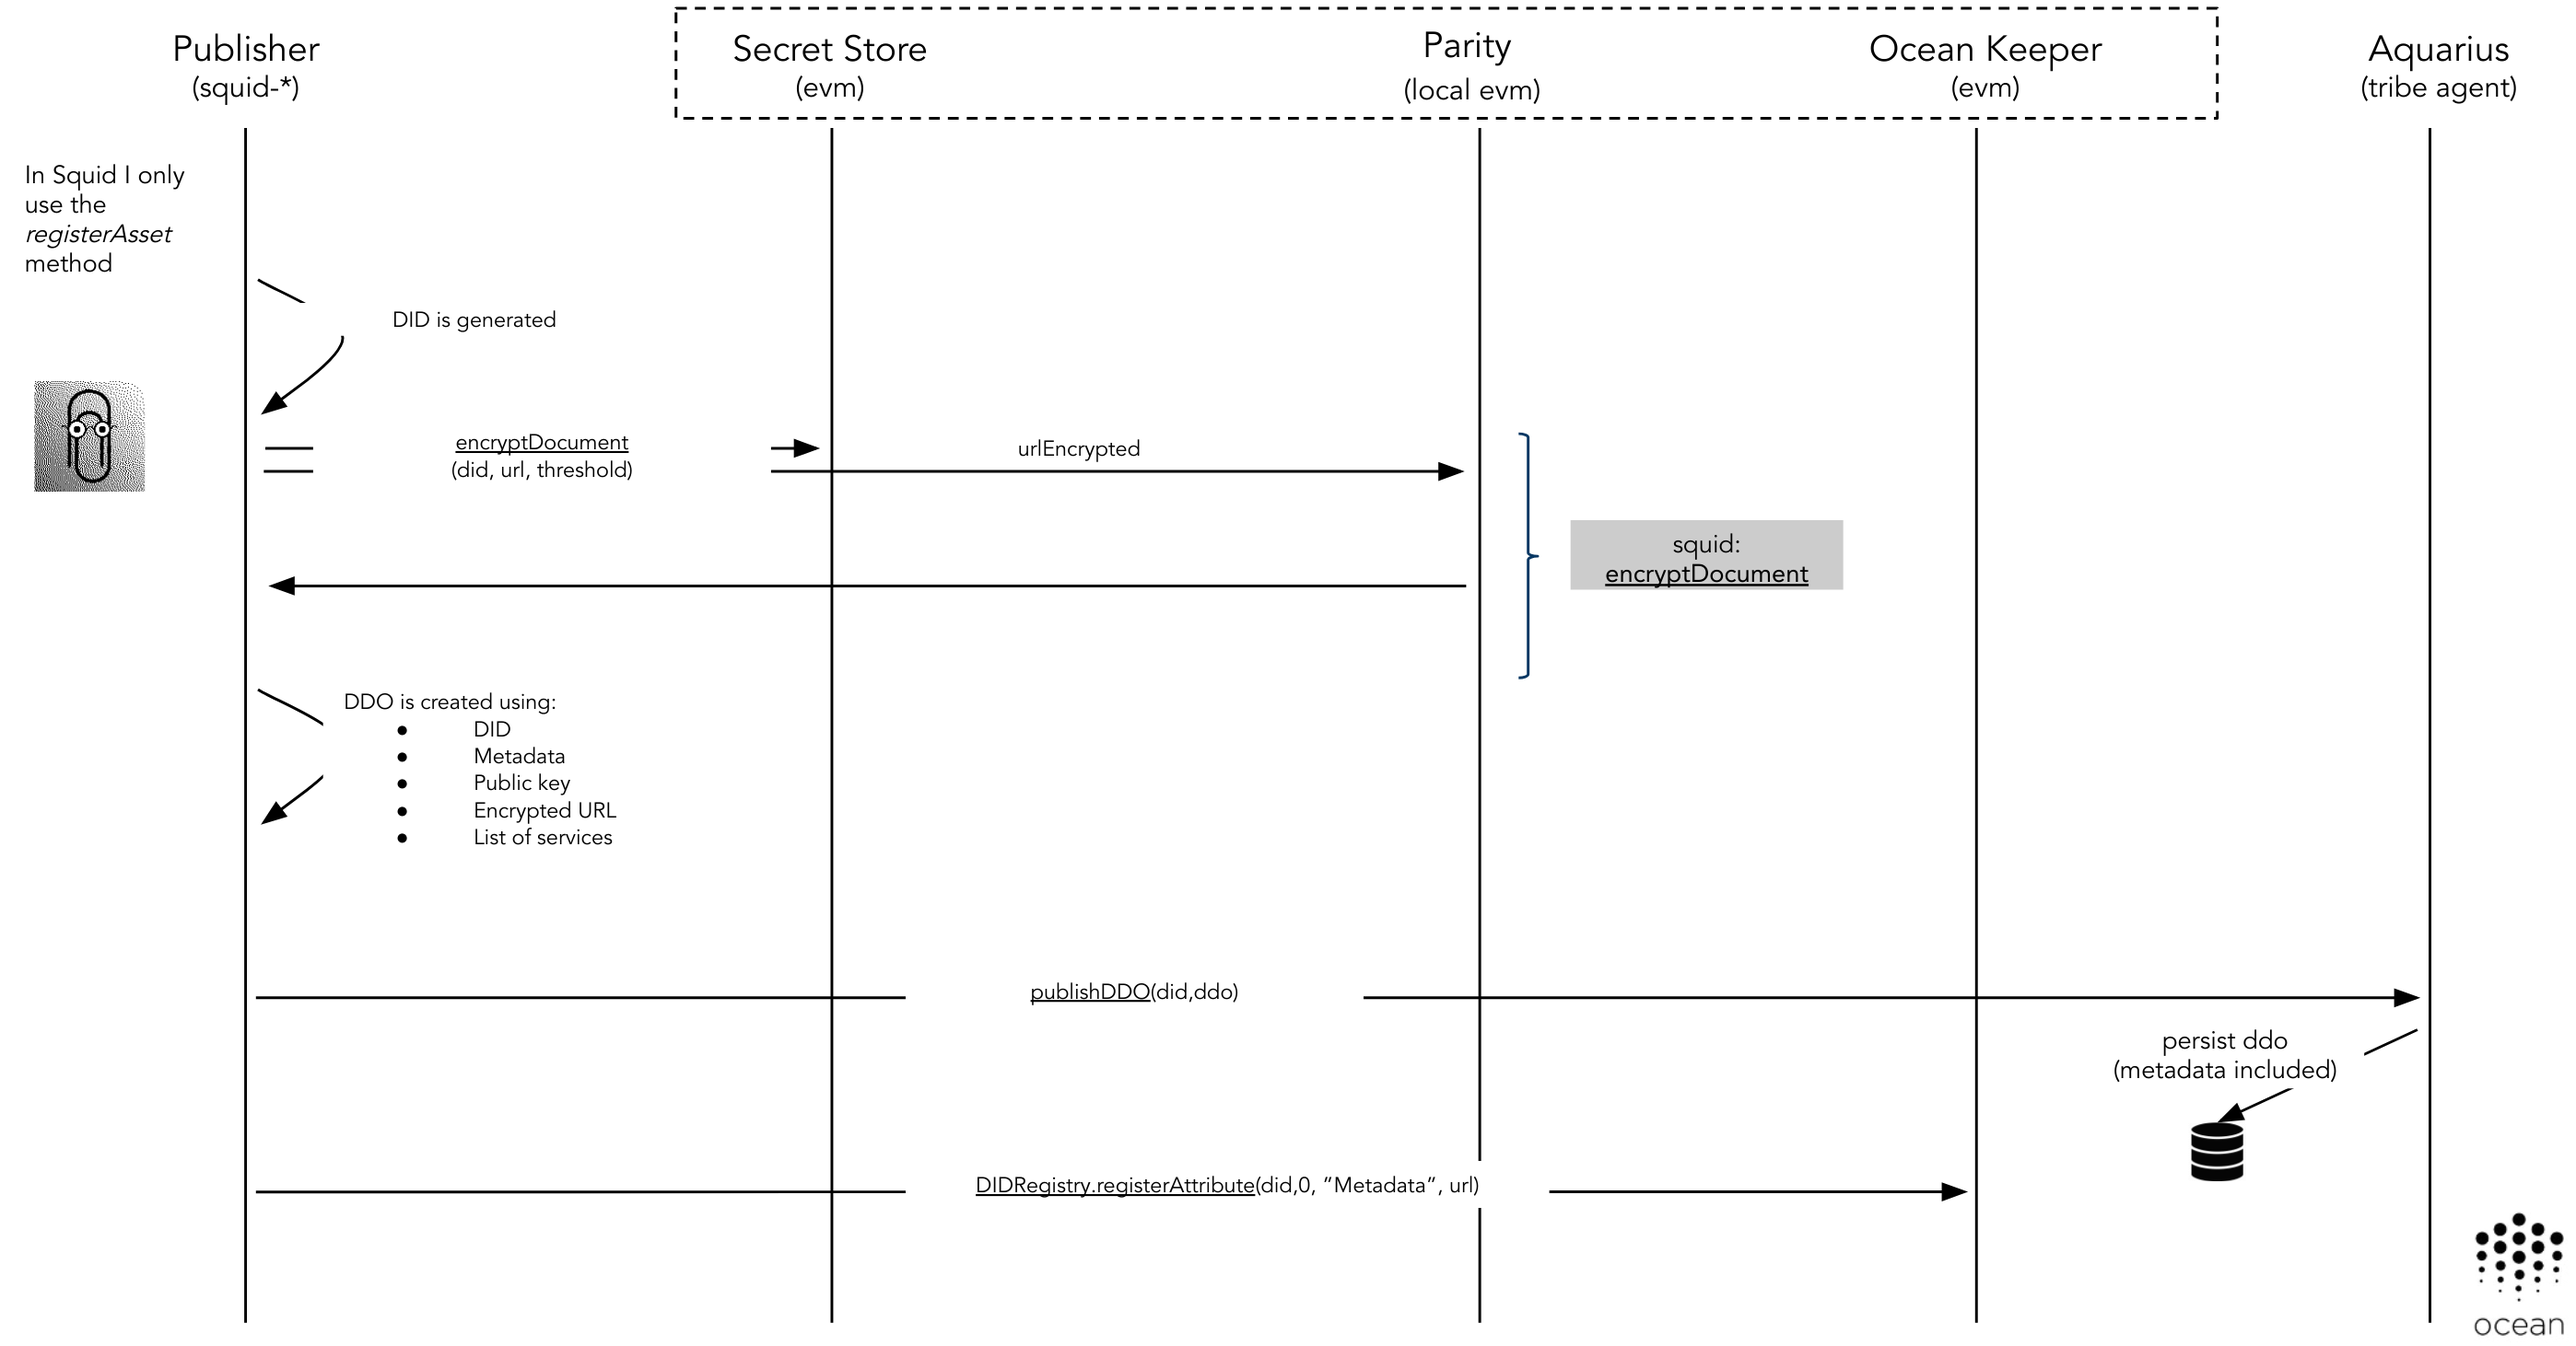
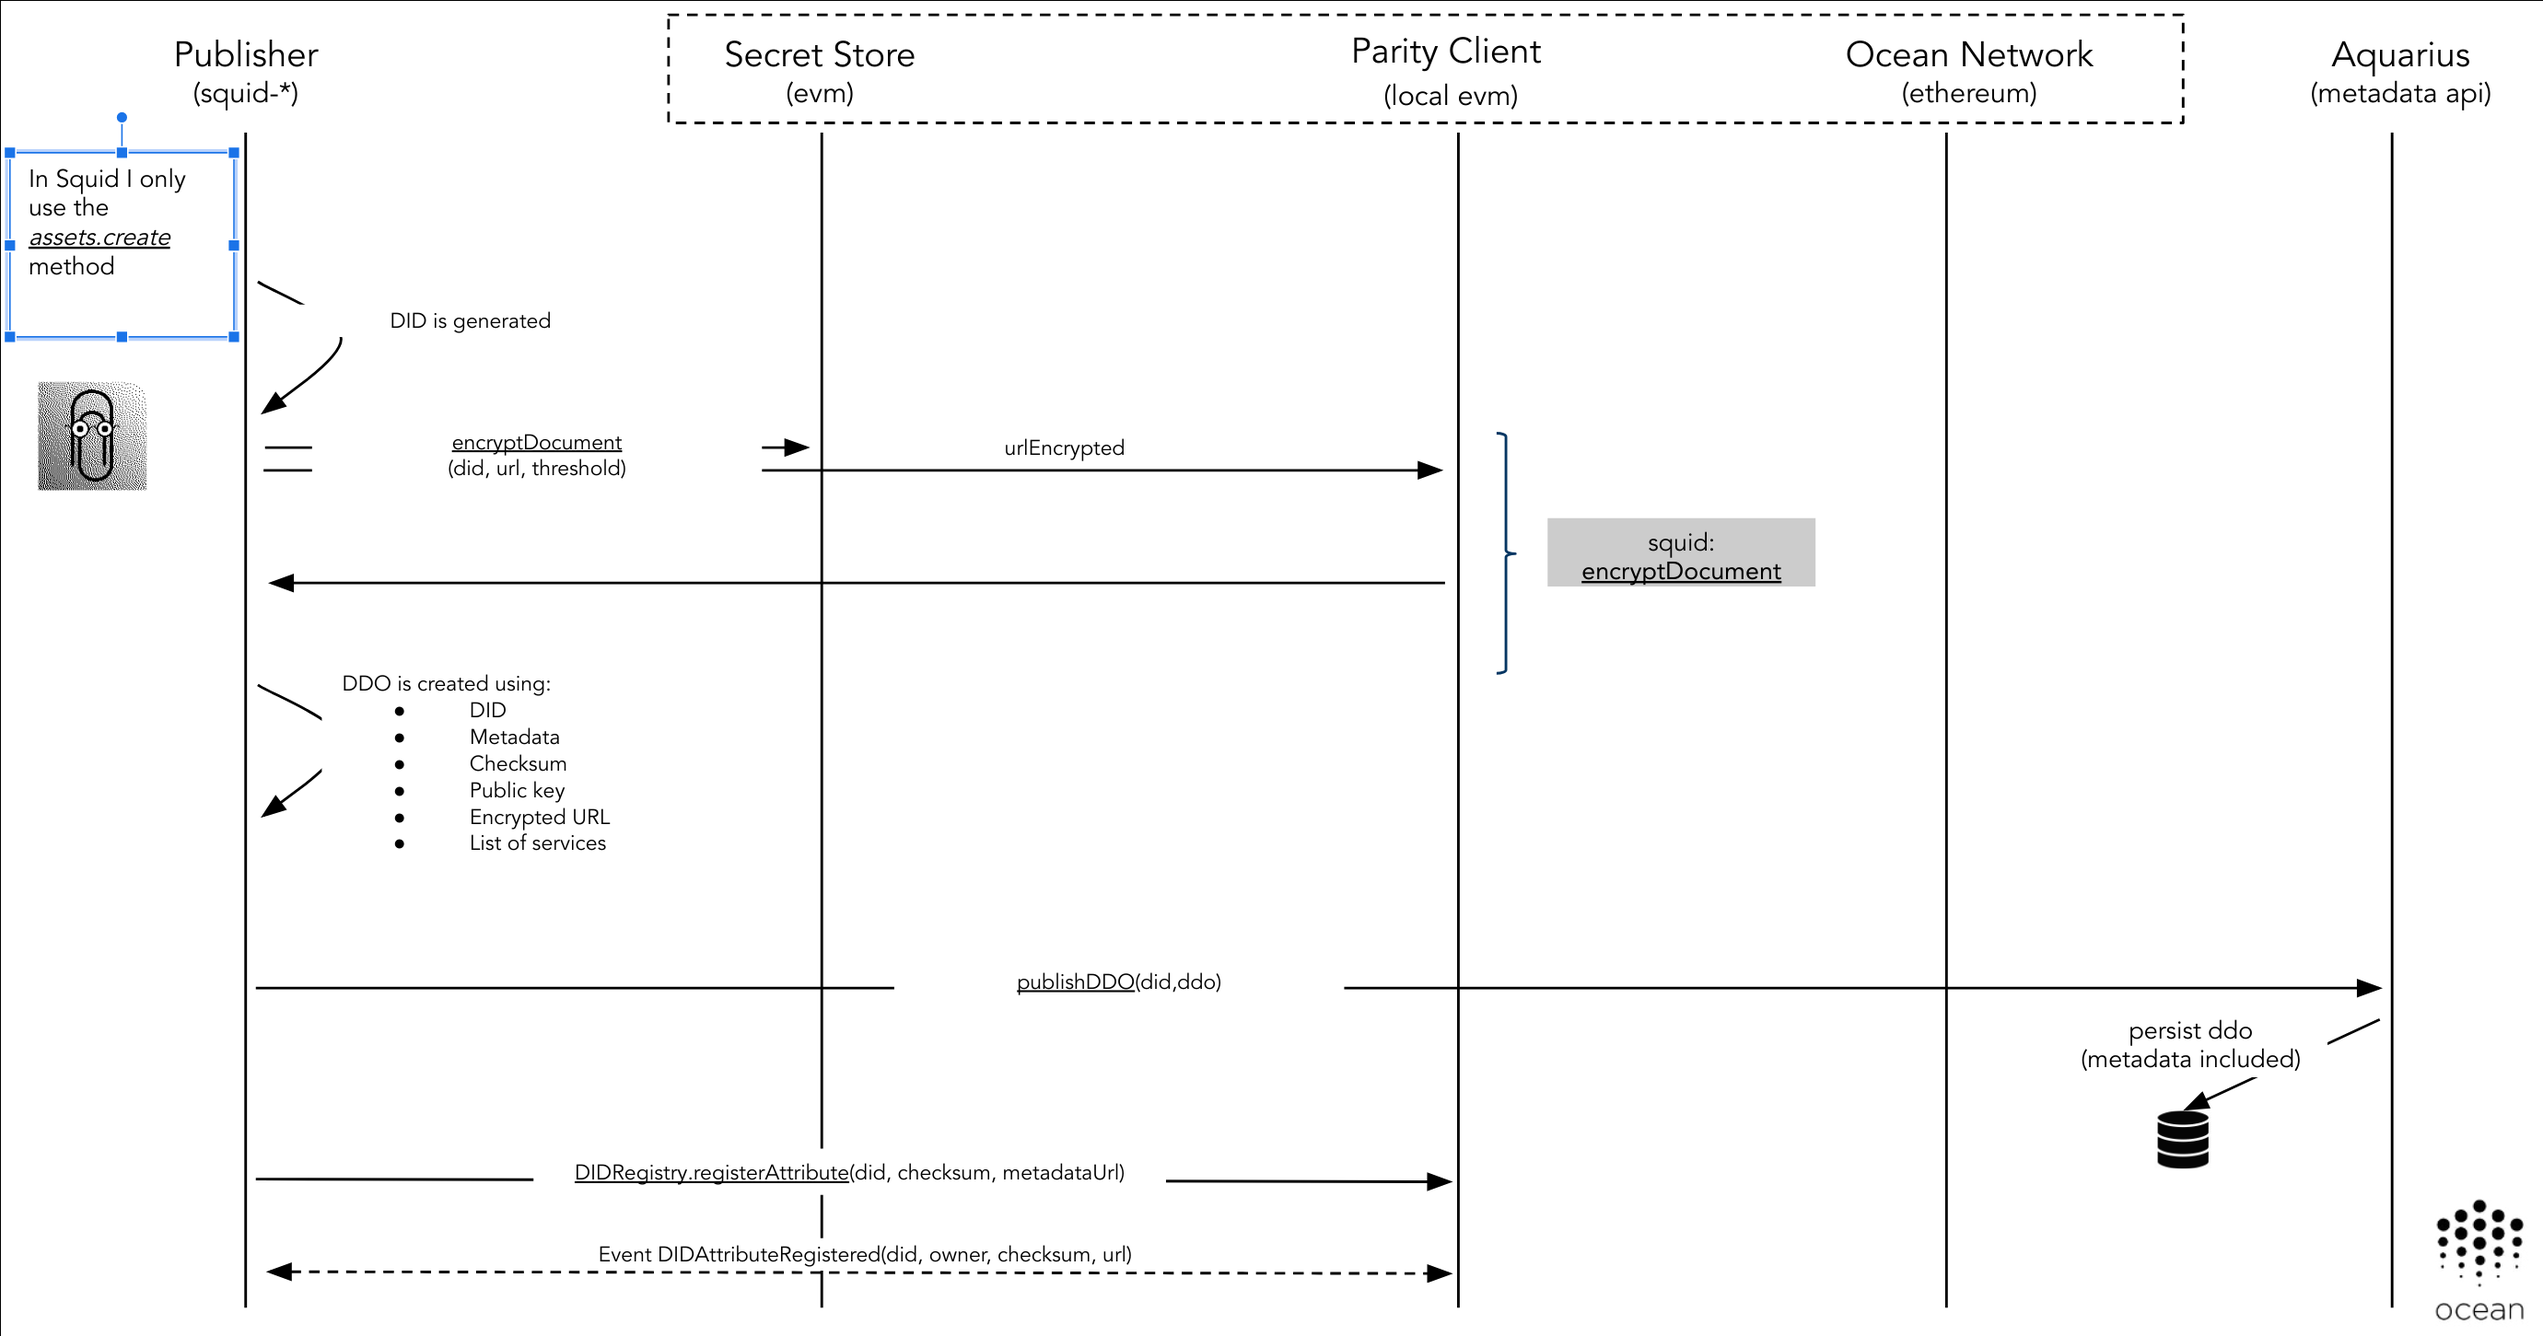
Updating the publishing flow

diff --git a/11/README.md b/11/README.md
@@ -43,8 +43,8 @@ Table of Contents
 
 # On-Chain Access Control using Service Agreements
 
-This OEP introduces the integration pattern for the use **Service Agreements (SA)** as contracts between parties interacting in a transaction.
-This OEP evolves the existing OEP-10 [OEP-10](../10/README.md), using the SA as the core element to orchestrate the publish/consume transactions for multiple services.
+This OEP introduces the integration pattern for the use **Service Execution Agreements (SEA)** as contracts between parties interacting in a transaction.
+This OEP evolves the existing OEP-10 [OEP-10](../10/README.md), using the SEA as the core element to orchestrate the publish/consume transactions for multiple services.
 
 It's out of the scope to detail the Service Agreements implementation. Service Agreements are described as part of the Dev-Ocean repository.
 
@@ -87,6 +87,7 @@ The following technical components are involved in an end-to-end publishing and 
 * SQUID - Library encapsulating the Ocean Protocol business logic. Interacts with all the different components/APIs of the system. Currently it's provided in the following languages:
   - [Squid Javascript](https://github.com/oceanprotocol/squid-js) - Javascript version of Squid to be integrated with Frontend applications.
   - [Squid Python](https://github.com/oceanprotocol/squid-py) - Python version of Squid to be integrated with Backend applications. The primary users are data scientists.
+  - [Squid Java](https://github.com/oceanprotocol/squid-java) - Java version of Squid to be integrated with JVM applications. The primary users are data engineers.
 * [KEEPER CONTRACTS](https://github.com/oceanprotocol/keeper-contracts) - Provides the Service Agreement (SA) business logic.
 * [SECRET STORE](https://github.com/oceanprotocol/parity-ethereum) - Included as part of the Parity Ethereum client. Allows the PUBLISHER to encrypt the Asset url. Integrates with the SA in order to authorize on-chain the decryption of the Asset url by the CONSUMER
 * [BRIZO](https://github.com/oceanprotocol/brizo) - Microservice to be executed by a PUBLISHER. It exposes the HTTP REST API permitting access to PUBLISHER Assets or additional services like computation.
@@ -102,22 +103,23 @@ The detailed description is an attempt to account for important edge cases and t
 There are some parameters used in this flow:
 
 * **did** - See [OEP-7](../7/README.md).
-* **serviceAgreementId** - Is the unique ID referring to a Service Agreement established between a PUBLISHER and a CONSUMER. The CONSUMER (via Squid) is the one creating this random unique serviceId.
+* **agreementId** or **serviceAgreementId** - Is the unique ID referring to a Service Agreement established between a PUBLISHER and a CONSUMER. The CONSUMER (via Squid) is the one creating this random unique serviceId.
 * **serviceDefinitionId** - Identifies one service in the array of services included in the DDO. It is created by the PUBLISHER (via Squid) upon DDO creation and is associated with different services.
-* **templateId** - Identifies a unique Service Agreement template. The Service Agreement is an instance of one existing template. Initially the following templates are supported:
-  - **Access** template, where the templateId is `hash(0):044852b2a670ade5407e78fb2863c51de9fcb96542a07186fe3aeda6bb8a116d`
-  - **FitchainCompute** template, where the templateId is `hash(1):c89efdaa54c0f20c7adf612882df0950f5a951637e0307cdcb4c672f298b8bc6`
-  - **CloudCompute** template, where the templateId is `hash(2):ad7c5bef027816a800da1736444fb58a807ef4c9603b7848673f7e3a68eb14a5`
+* **templateId** - Identifies a unique Service Agreement template. The templates supported are deployed on-chain by Ocean Protocol and the addresses or templateId's can be found in the ABI's. Initially the following templates is supported:
+  - **EscrowAccessSecretStoreTemplate**
 
 
 ### Publishing
 
-Using only one Squid call `registerAsset(asset_metadata, publisher_public_key)`, the PUBLISHER should be able to register an Asset.
+Using only one Squid call, the PUBLISHER should be able to register an Asset:
+```
+const asset = ocean.assets.create(metadata, publisherAccount, services=[ocean.services.createAccessService(...)])
+```
 
-This method executes internally - everything happens off-chain.
+This method executes internally:
 
-1. PUBLISHER generates a DID. See [How to generate a DID](https://github.com/oceanprotocol/OEPs/tree/master/7#length-of-a-did). DID is a UUID in Trilobite. Later on, this might be computed as a DDO hash.
-1. PUBLISHER optionally can encrypt the URLs using different encryption plugins. If that's the case, in the DDO will be added an **encryption** attribute describing the procedure used.
+1. PUBLISHER generates a DID. See [How to generate a DID](https://github.com/oceanprotocol/OEPs/tree/master/7#length-of-a-did). Currently the DID is a UUID. Later on, this might be computed as a DDO hash.
+1. PUBLISHER optionally can encrypt the URLs using different encryption plugins. If that's the case, in the DDO will be added an **encryption** service describing the procedure used.
 1. PUBLISHER encrypts the URL using the Secret Store identified by a DID.
 1. PUBLISHER creates a DDO including the following information:
    - DID
@@ -159,23 +161,30 @@ def generate_condition_key(sla_template_id, contract_address, function_fingerpri
 
     An example of a complete DDO can be found [here](./ddo.example.json). Please do note that the condition's order in the DID document should reflect the same order in on-chain service agreement.
 
+1. PUBLISHER compute the key attributes of the DDO, generate a `checksum` and sign. The signature is added in the `proof` attribute.
+   More information about this process can be found in the [How to Compute a DID section](https://github.com/oceanprotocol/OEPs/tree/master/7#how-to-compute-a-did).
+
 1. PUBLISHER publishes the DDO in the Metadata Store (OceanDB) using AQUARIUS.
 
 1. PUBLISHER registers the DID, associating the Asset DID to the Aquarius Metadata URL that resolves the DID to a DDO.
 To do that, SQUID needs to integrate the `DIDRegistry` contract using the `registerAttribute` method.
 
 ```
-function registerAttribute(bytes32 _did, ValueType _type, bytes32 _key, string _value) public {}
+function registerAttribute (
+        bytes32 _did,
+        bytes32 _checksum,
+        string memory _value
+    )
 ```
 
 The parameters to pass are:
   - **bytes32 _did** - The hash part of the DID, the part just after `did:op:`
-  - **ValueType _type** - uint 0
-  - **bytes32 _key** - "Metadata" token in bytes32 format
+  - **bytes32 _checksum** - The checksum generated after [compute the DID](https://github.com/oceanprotocol/OEPs/tree/master/7#how-to-compute-a-did)
   - **string _value** - The Metadata service endpoint. In the above DDO its: http://myaquarius.org/api/v1/provider/assets/metadata/{did}
 
 ![Publishing Flow](images/publishing-flow.png)
 
+1. The KEEPER will emit the `DIDAttributeRegistered` including the `did`, `checksum` and `url` registered.
 
 ### Consuming
 
